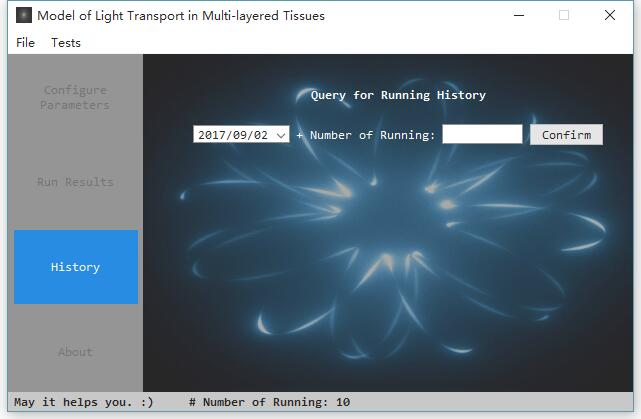
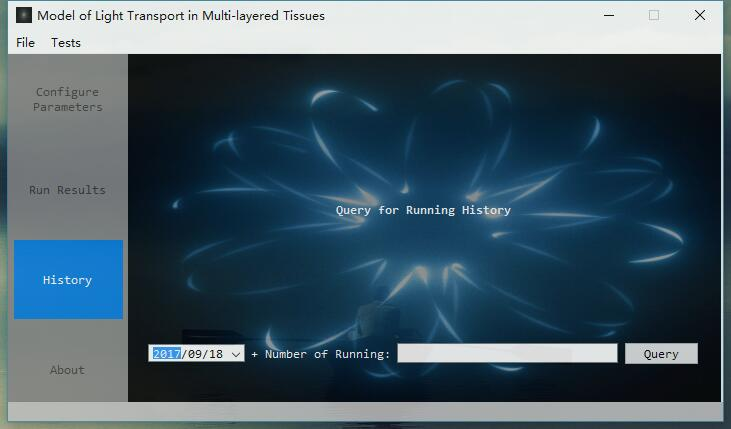
update README & update images.

diff --git a/mainwidgets/history.cpp b/mainwidgets/history.cpp
@@ -238,6 +238,7 @@ OutputToString::OutputToString(const OutClass &output) {
   spec_reflect = QString::number(output.out->spec_reflect, 'f', 5);
   abs_prob = QString::number(output.out->abs_prob, 'f', 5);
   total_trans = QString::number(output.out->total_trans, 'f', 5);
+  diff_reflect=QString::number(output.out->diff_reflect,'f',5);
   diff_reflect_agl = LinkDataFromVector(output.out->diff_reflect_agl);
   diff_reflect_rdl = LinkDataFromVector(output.out->diff_reflect_rdl);
   abs_prob_z = LinkDataFromVector(output.out->abs_prob_z);

diff --git a/mainwidgets/confparas.cpp b/mainwidgets/confparas.cpp
@@ -10,6 +10,7 @@
 #include <QPainter>
 #include <QStyleOption>
 #include <QVBoxLayout>
+#include<QTime>
 
 ConfParas *ConfParas::theConfParas = nullptr;
 

diff --git a/mainwindow.cpp b/mainwindow.cpp
@@ -7,6 +7,7 @@
 #include <QDebug>
 #include <QPainter>
 #include <QProxyStyle>
+#include<QTime>
 
 class CustomTabStyle : public QProxyStyle {
 public:

diff --git a/README.md b/README.md
@@ -32,14 +32,18 @@
 
   ![runresults](https://github.com/SimonCqk/Model_of_LightTransport/blob/master/image/Results.jpg?raw=true)
 
-  ##### see more results by clicking `view` button.
+  ##### see more raw data by clicking `Data` button.
   
   ![runresults_sample](https://github.com/SimonCqk/Model_of_LightTransport/blob/master/image/Results_sample.jpg?raw=true)
+
+  ##### you may want to view visualized chart instead of raw data , so click `Scatter Chart` or `Spline chart` to lanuch chart viewer.
+  ![runresults_sample](https://github.com/SimonCqk/Model_of_LightTransport/blob/master/image/Results_scatterchart.jpg?raw=true)
+  ![runresults_sample](https://github.com/SimonCqk/Model_of_LightTransport/blob/master/image/Results_splinechart.jpg?raw=true)
   
 #### 4. View Running History on `History` page.
   ![history](https://github.com/SimonCqk/Model_of_LightTransport/blob/master/image/History.jpg?raw=true)
   
-  Input `Running Data` and `Number of Running`,and click `Confrim` button to ask for query...
+  Input `Running Data` and `Number of Running`,and click `Query` button to ask for query...
   (the `Number of Running` is shown in the status bar when launched.)<br>
   `You have to add .dll file of SQLite to sqldrivers folder. `<br>
   As this sample:
